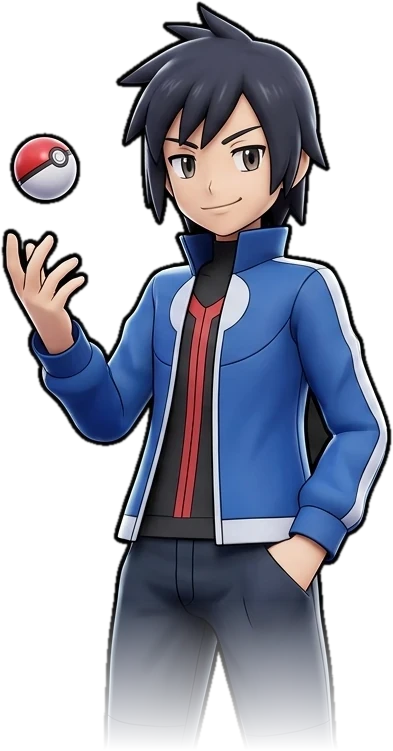
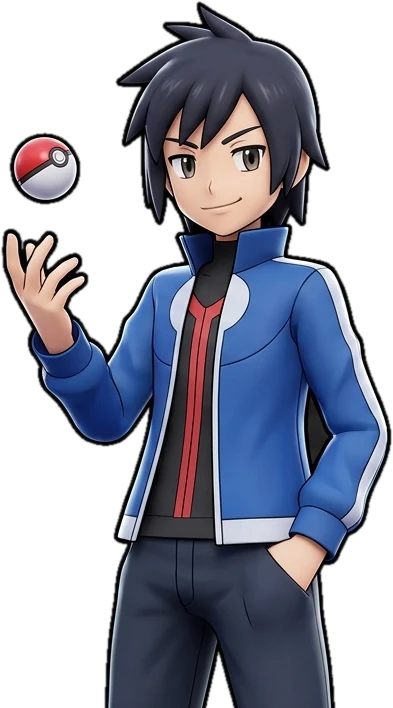
App: allenatori della scena TRAINERS più grandi, vicini e a filo del bordo in basso
Senza sfumatura: il taglio sulle gambe coincide con il bordo inferiore dello schermo.

Claude-Session: https://claude.ai/code/session_01G7sYikhG7HEY1A3mUCTzFw

diff --git a/docs/app-scena.css b/docs/app-scena.css
@@ -65,8 +65,8 @@ html.app .gx-c-box .e-dx { height: calc(192 * var(--u)); right: calc(-12 * var(-
 /* TRAINERS: due allenatori uno di fronte all'altro (le figure di ripiego sono i loro avatar; se c'è l'immagine propria, trainers-1 e trainers-2, la usa) */
 html.app .gx-c-trainers .gx-eroe { image-rendering: pixelated; filter: drop-shadow(0 calc(6 * var(--u)) 0 rgba(0, 0, 0, .35)); }
 html.app .gx-c-trainers .gx-eroe.propria { image-rendering: auto; filter: drop-shadow(0 0 calc(12 * var(--u)) rgba(255, 255, 255, .5)) drop-shadow(0 calc(8 * var(--u)) calc(6 * var(--u)) rgba(40, 0, 40, .5)); }
-html.app .gx-c-trainers .t-1 { height: calc(240 * var(--u)); left: calc(60 * var(--u)); bottom: calc(44 * var(--u)); z-index: 2; }
-html.app .gx-c-trainers .t-2 { height: calc(240 * var(--u)); right: calc(60 * var(--u)); bottom: calc(44 * var(--u)); z-index: 2; }
+html.app .gx-c-trainers .t-1 { height: calc(290 * var(--u)); left: calc(96 * var(--u)); bottom: 0; z-index: 2; }
+html.app .gx-c-trainers .t-2 { height: calc(290 * var(--u)); right: calc(96 * var(--u)); bottom: 0; z-index: 2; }
 html.app .gx-c-trainers .gx-aura-l { left: calc(70 * var(--u)); bottom: calc(30 * var(--u)); width: calc(230 * var(--u)); height: calc(230 * var(--u)); background: radial-gradient(circle, rgba(255, 200, 90, .7) 0%, rgba(255, 120, 60, .3) 42%, transparent 70%); }
 html.app .gx-c-trainers .gx-aura-r { right: calc(70 * var(--u)); bottom: calc(30 * var(--u)); width: calc(230 * var(--u)); height: calc(230 * var(--u)); background: radial-gradient(circle, rgba(200, 160, 255, .7) 0%, rgba(120, 80, 255, .3) 42%, transparent 70%); }
 
